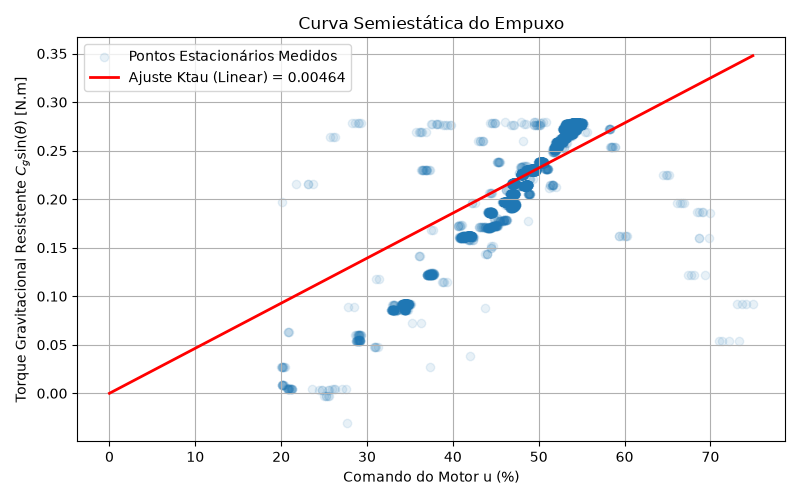
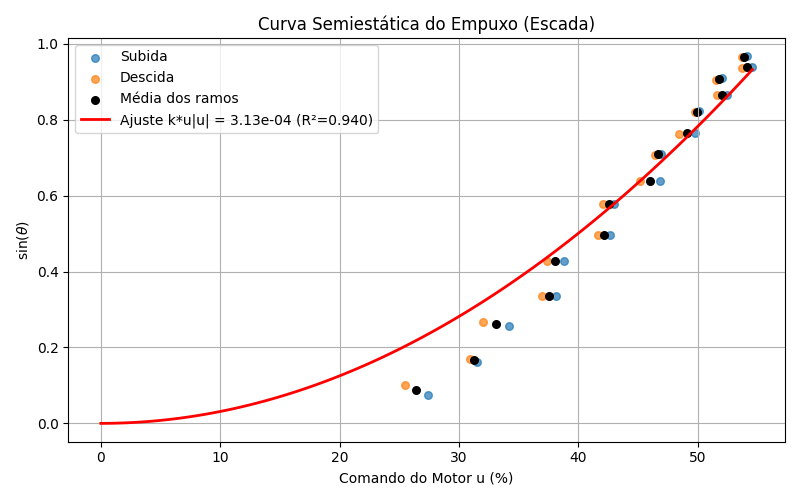
at

diff --git a/sysid/notebooks/identificação-collab/IDENT-FELIPE/ident_greybox_prof.py b/sysid/notebooks/identificação-collab/IDENT-FELIPE/ident_greybox_prof.py
@@ -18,51 +18,135 @@ m2, L2 = 0.055, 0.347
 g = 9.81
 C_g = (m1*L1 - m2*L2)*g  # Torque máximo da gravidade: ~0.2795 N.m
 
-def extract_static_gain():
+def extract_static_gain_ramp():
     """
     Passo 1: Curva Semiestática
-    Isola o ganho do motor (Ktau) ou g(u) assumindo aceleração e velocidade zero
-    em pontos de repouso (steady-state).
+    Isola o ganho do motor (Ktau) assumindo aceleração e velocidade ~zero
+    (rampa lenta, quase-estática). O empuxo é modelado como Ktau * u^2
+    (empuxo da hélice ~ omega^2, omega ~ u).
+    A média dos ramos de subida e descida (mesmo ângulo) cancela o atrito seco.
     """
-    print("--- Fase 1: Identificação Semiestática (Degraus) ---")
-    file_path = "data/coletas/RODADA-7_20260904/seq-degraus-45-2_0904_20-45.csv"
+    print("--- Fase 1: Identificação Semiestática (Rampa lenta) ---")
+    file_path = "data/coletas/RODADA-3_20260807/dados_curva_semi_estatica_0807_17-36.csv"
     y_deg, u, t, _ = readData(dataset_name=file_path, return_ref=True)
     
-    y_rad = np.deg2rad(y_deg)
-    dt = np.mean(np.diff(t))
+    # Descarta transitório inicial (amostra com u espúrio)
+    y_deg, u, t = y_deg[10:], u[10:], t[10:]
     
-    # Calcular velocidade (rad/s)
-    v_rad = np.gradient(y_rad, dt)
+    # Separa ramo de subida e de descida (pelo ponto de ângulo máximo)
+    i_max = int(np.argmax(y_deg))
     
-    # Filtrar pontos de estado estacionário (onde a velocidade do braço é ~0)
-    static_mask = np.abs(v_rad) < 0.02
+    # Faixa útil de ângulo: evita zona morta inicial e o batente em ~90°
+    # (onde sin(theta)~1 satura e o braço está apoiado, não em equilíbrio)
+    th_min, th_max = 5.0, 80.0
+    bins = np.arange(th_min, th_max + 1.0, 1.0)
+    centers = 0.5 * (bins[:-1] + bins[1:])
     
-    u_static = u[static_mask]
-    y_static = y_rad[static_mask]
+    def mean_u_by_angle(sl):
+        ang, uu = y_deg[sl], u[sl]
+        out = np.full(len(centers), np.nan)
+        for i in range(len(centers)):
+            m = (ang >= bins[i]) & (ang < bins[i+1])
+            if m.sum() >= 5:
+                out[i] = np.mean(uu[m])
+        return out
     
-    # Filtra u=0 (desligado) para evitar divisão por zero no ganho
-    active_mask = u_static > 20.0
-    u_static = u_static[active_mask]
-    y_static = y_static[active_mask]
+    u_up = mean_u_by_angle(slice(0, i_max))
+    u_down = mean_u_by_angle(slice(i_max, None))
+    valid = ~np.isnan(u_up) & ~np.isnan(u_down)
     
-    # A equação estática é: Ktau * u = C_g * sin(theta) => Ktau = C_g * sin(theta) / u
-    sin_theta = np.sin(y_static)
-    Torque_g = C_g * sin_theta
+    u_avg = 0.5 * (u_up[valid] + u_down[valid])
+    Torque_g = np.sin(np.deg2rad(centers[valid]))   # sin(theta) normalizado
     
-    # Ajuste Linear de Reta passando pela origem (Mínimos Quadrados)
-    # Y = Ktau * X -> Torque_g = Ktau * u
-    Ktau_opt = np.dot(u_static, Torque_g) / np.dot(u_static, u_static)
+    # Equilíbrio (modelo do professor): 0 = c1*sin(th) + c3*u|u|  =>  sin(th) = k*u|u|
+    # com k = c3/|c1| (independe de massas/comprimentos). Ajuste pela origem (MQ).
+    u2 = u_avg * np.abs(u_avg)
+    Ktau_opt = np.dot(u2, Torque_g) / np.dot(u2, u2)
     
-    print(f"Ganho Ktau isolado pela curva semiestática: {Ktau_opt:.6f} N.m/%")
+    r2 = 1 - np.sum((Torque_g - Ktau_opt*u2)**2) / np.sum((Torque_g - Torque_g.mean())**2)
+    print(f"Razão estática k = c3/|c1|: {Ktau_opt:.4e} 1/%^2 | R2 = {r2:.4f}  (Ktau físico = k*C_g = {Ktau_opt*C_g:.4e})")
     
     # Salva o gráfico comprobatório
     plt.figure(figsize=(8,5))
-    plt.scatter(u_static, Torque_g, alpha=0.1, label='Pontos Estacionários Medidos')
-    u_line = np.linspace(0, max(u_static), 100)
-    plt.plot(u_line, Ktau_opt * u_line, 'r-', lw=2, label=f'Ajuste Ktau (Linear) = {Ktau_opt:.5f}')
+    plt.scatter(u_up[valid], Torque_g, s=12, alpha=0.5, label='Subida')
+    plt.scatter(u_down[valid], Torque_g, s=12, alpha=0.5, label='Descida')
+    plt.scatter(u_avg, Torque_g, s=12, c='k', label='Média dos ramos')
+    u_line = np.linspace(0, max(u_avg.max(), u_up[valid].max()), 100)
+    plt.plot(u_line, Ktau_opt * u_line**2, 'r-', lw=2, label=f'Ajuste k*u|u| = {Ktau_opt:.2e} (R²={r2:.3f})')
     plt.title("Curva Semiestática do Empuxo")
     plt.xlabel("Comando do Motor u (%)")
-    plt.ylabel("Torque Gravitacional Resistente $C_g \sin(\\theta)$ [N.m]")
+    plt.ylabel(r"$\sin(\theta)$")
+    plt.grid(True)
+    plt.legend()
+    plt.tight_layout()
+    plt.savefig(os.path.join(current_dir, 'curva_semiestatica_rampa.png'))
+    plt.close()
+    
+    return float(Ktau_opt)
+
+
+def extract_static_gain():
+    """
+    Passo 1: Curva Semiestática por Escada (patamares)
+    Cada patamar da referência é um equilíbrio (v=0, a=0). Usa-se a média da parte
+    final de cada patamar (já assentada) de theta MEDIDO e de u. O empuxo é
+    Ktau * u^2. A média entre patamares de subida e descida (mesma referência)
+    cancela o atrito seco.
+    """
+    print("--- Fase 1: Identificação Semiestática (Escada) ---")
+    file_path = "data/experimentos/coleta_dados/RODADA-4/escada-atrito-1_0819_19-08.csv"
+    y_deg, u, t, ref = readData(dataset_name=file_path, return_ref=True)
+    
+    settle_frac = 0.4          # usa os últimos 40% de cada patamar
+    th_max = 80.0              # evita o batente (~90°)
+    
+    # Segmenta em patamares onde a referência é constante
+    change = np.flatnonzero(np.abs(np.diff(ref)) > 1e-6) + 1
+    starts = np.r_[0, change]
+    ends = np.r_[change, len(ref)]
+    i_peak = int(np.argmax(ref))
+    
+    plateaus = []  # (ref, theta_mean, u_mean, is_up)
+    for s, e in zip(starts, ends):
+        n = e - s
+        if n < 100:   # patamar curto demais (< ~1 s)
+            continue
+        a = s + int((1 - settle_frac) * n)
+        theta_m = np.mean(y_deg[a:e])
+        u_m = np.mean(u[a:e])
+        r = ref[s]
+        if r <= 0 or theta_m > th_max or u_m < 5:
+            continue
+        plateaus.append((r, theta_m, u_m, s < i_peak))
+    
+    up = {p[0]: p for p in plateaus if p[3]}
+    down = {p[0]: p for p in plateaus if not p[3]}
+    common = sorted(set(up) & set(down))
+    
+    th_up = np.array([up[r][1] for r in common]); u_up = np.array([up[r][2] for r in common])
+    th_dn = np.array([down[r][1] for r in common]); u_dn = np.array([down[r][2] for r in common])
+    
+    # Média dos dois ramos (cancela atrito seco)
+    th_avg = np.deg2rad(0.5 * (th_up + th_dn))
+    u_avg = 0.5 * (u_up + u_dn)
+    Torque_g = np.sin(th_avg)   # sin(theta) normalizado
+    
+    # Equilíbrio (modelo do professor): sin(th) = k*u|u|, k = c3/|c1| (MQ pela origem)
+    u2 = u_avg * np.abs(u_avg)
+    Ktau_opt = np.dot(u2, Torque_g) / np.dot(u2, u2)
+    r2 = 1 - np.sum((Torque_g - Ktau_opt*u2)**2) / np.sum((Torque_g - Torque_g.mean())**2)
+    print(f"Patamares usados: {len(common)} pares subida/descida (refs: {common[0]:.0f}°..{common[-1]:.0f}°)")
+    print(f"Razão estática k = c3/|c1|: {Ktau_opt:.4e} 1/%^2 | R2 = {r2:.4f}  (Ktau físico = k*C_g = {Ktau_opt*C_g:.4e})")
+    
+    plt.figure(figsize=(8,5))
+    plt.scatter(u_up, np.sin(np.deg2rad(th_up)), s=30, alpha=0.7, label='Subida')
+    plt.scatter(u_dn, np.sin(np.deg2rad(th_dn)), s=30, alpha=0.7, label='Descida')
+    plt.scatter(u_avg, Torque_g, s=30, c='k', label='Média dos ramos')
+    u_line = np.linspace(0, max(u_up.max(), u_dn.max()), 100)
+    plt.plot(u_line, Ktau_opt * u_line**2, 'r-', lw=2, label=f'Ajuste k*u|u| = {Ktau_opt:.2e} (R²={r2:.3f})')
+    plt.title("Curva Semiestática do Empuxo (Escada)")
+    plt.xlabel("Comando do Motor u (%)")
+    plt.ylabel(r"$\sin(\theta)$")
     plt.grid(True)
     plt.legend()
     plt.tight_layout()
@@ -72,10 +156,12 @@ def extract_static_gain():
     return float(Ktau_opt)
 
 
-def run_dynamic_optimization(Ktau_fixed):
+def run_dynamic_optimization(k_static):
     """
-    Passo 2: Otimização Dinâmica
-    Descobre Inércia, Atrito Linear, Coulomb e Stribeck usando o Ktau já descoberto.
+    Passo 2: Otimização Dinâmica (Multiple Shooting) — modelo do professor:
+        theta'' = c1*sin(theta) + c2*theta' + c3*u|u| + Fa_NL(theta')
+    com c3 = -k*c1 (k = c3/|c1| vindo da curva semiestática).
+    Descobre c1, c2 e os parâmetros do atrito não linear (Coulomb + Stribeck), em rad/s^2.
     """
     print("\n--- Fase 2: Otimização Dinâmica com Atrito Não-Linear (Modelo do Professor) ---")
     file_path = "data/coletas/RODADA-7_20260904/multi-seno-45-040Hz_0904_20-26.csv"
@@ -99,25 +185,26 @@ def run_dynamic_optimization(Ktau_fixed):
     opti = cs.Opti()
     X = opti.variable(2, N)
     
-    # --- Parâmetros Ocultos a Descobrir ---
-    J  = opti.variable() # Inércia
-    b  = opti.variable() # Atrito Viscoso Linear
-    Fc = opti.variable() # Atrito Seco Constante (Coulomb)
-    Fs = opti.variable() # Pico de Atrito Estático (Stribeck)
-    vs = opti.variable() # Velocidade Crítica do Stribeck
+    # --- Parâmetros a Descobrir (forma em aceleração, rad/s^2) ---
+    c1 = opti.variable() # c1 = -Cg/J   (gravidade)
+    c2 = opti.variable() # c2 = -b/J    (atrito viscoso linear)
+    Fc = opti.variable() # Coulomb em rad/s^2
+    Fs = opti.variable() # Pico Stribeck em rad/s^2
+    vs = opti.variable() # Velocidade crítica do Stribeck
+    c3 = -k_static * c1  # c3 = Ktau/J, preso à curva semiestática (c3/|c1| = k)
     
-    # Limites físicos
-    opti.subject_to(opti.bounded(0.01, J, 0.2))
-    opti.subject_to(opti.bounded(0.0, b, 0.1))
-    opti.subject_to(opti.bounded(0.0, Fc, 0.1))
-    opti.subject_to(opti.bounded(0.0, Fs, 0.1))
+    # Limites
+    opti.subject_to(opti.bounded(-40.0, c1, -0.5))
+    opti.subject_to(opti.bounded(-20.0, c2, 0.0))
+    opti.subject_to(opti.bounded(0.0, Fc, 5.0))
+    opti.subject_to(opti.bounded(0.0, Fs, 5.0))
     opti.subject_to(opti.bounded(0.01, vs, 5.0))
     
-    # Chutes Iniciais
-    opti.set_initial(J, 0.035)
-    opti.set_initial(b, 0.016)
-    opti.set_initial(Fc, 0.005)
-    opti.set_initial(Fs, 0.005)
+    # Chutes Iniciais (J~0.035: c1=-Cg/J, c2=-b/J, Fc/J...)
+    opti.set_initial(c1, -C_g / 0.035)
+    opti.set_initial(c2, -0.016 / 0.035)
+    opti.set_initial(Fc, 0.005 / 0.035)
+    opti.set_initial(Fs, 0.005 / 0.035)
     opti.set_initial(vs, 0.5)
     
     # Condição inicial
@@ -127,11 +214,10 @@ def run_dynamic_optimization(Ktau_fixed):
     # Runge-Kutta 4 Integrator Inline
     def rk4_step(x_k, u_k):
         def f(x_, u_):
-            fric_lin = b * x_[1]
-            fric_coul = Fc * cs.tanh(50 * x_[1])
-            fric_strib = Fs * cs.exp(-(x_[1]/vs)**2) * cs.tanh(50 * x_[1])
-            fric_tot = fric_lin + fric_coul + fric_strib
-            return cs.vertcat(x_[1], (Ktau_fixed * u_ - fric_tot - C_g * cs.sin(x_[0])) / J)
+            fric_nl = -(Fc * cs.tanh(50 * x_[1])
+                        + Fs * cs.exp(-(x_[1]/vs)**2) * cs.tanh(50 * x_[1]))   # Fa_NL
+            acc = c1 * cs.sin(x_[0]) + c2 * x_[1] + c3 * u_ * cs.fabs(u_) + fric_nl
+            return cs.vertcat(x_[1], acc)
             
         k1 = f(x_k, u_k)
         k2 = f(x_k + dt/2 * k1, u_k)
@@ -155,28 +241,25 @@ def run_dynamic_optimization(Ktau_fixed):
     print("Iniciando otimização do IPOPT...")
     try:
         sol = opti.solve()
-        X_opt = sol.value(X)
-        J_opt = sol.value(J)
-        b_opt = sol.value(b)
-        Fc_opt = sol.value(Fc)
-        Fs_opt = sol.value(Fs)
-        vs_opt = sol.value(vs)
+        val = sol.value
     except Exception as e:
         print("A otimização falhou ao convergir. Usando valores da última iteração...")
-        X_opt = opti.debug.value(X)
-        J_opt = opti.debug.value(J)
-        b_opt = opti.debug.value(b)
-        Fc_opt = opti.debug.value(Fc)
-        Fs_opt = opti.debug.value(Fs)
-        vs_opt = opti.debug.value(vs)
+        val = opti.debug.value
+    X_opt = val(X)
+    c1_opt, c2_opt = val(c1), val(c2)
+    Fc_opt, Fs_opt, vs_opt = val(Fc), val(Fs), val(vs)
+    c3_opt = -k_static * c1_opt
+    J_equiv = -C_g / c1_opt   # inércia equivalente (usando C_g físico)
         
     print("\n=============================================")
-    print(" Parâmetros Identificados (Modelo do Professor)")
-    print(f" Inércia (J)       = {J_opt:.6f} kg.m^2")
-    print(f" Atrito Viscoso (b)= {b_opt:.6f} N.m.s/rad")
-    print(f" Coulomb (Fc)      = {Fc_opt:.6f} N.m")
-    print(f" Stribeck Max (Fs) = {Fs_opt:.6f} N.m")
+    print(" Parâmetros Identificados (Modelo do Professor, rad/s^2)")
+    print(f" c1 (sin)          = {c1_opt:.6f}   [= -Cg/J]")
+    print(f" c2 (theta')       = {c2_opt:.6f}   [= -b/J]")
+    print(f" c3 (u|u|)         = {c3_opt:.6e}   [= -k*c1, k estático = {k_static:.4e}]")
+    print(f" Coulomb (Fc)      = {Fc_opt:.6f} rad/s^2")
+    print(f" Stribeck Max (Fs) = {Fs_opt:.6f} rad/s^2")
     print(f" Vel. Stribeck (vs)= {vs_opt:.6f} rad/s")
+    print(f" -> J equivalente  = {J_equiv:.5f} kg.m^2 | b = {-c2_opt*J_equiv:.5f} N.m.s/rad | Ktau = {c3_opt*J_equiv:.4e}")
     print("=============================================")
     
     y_sim_deg = np.rad2deg(X_opt[0, :])
@@ -197,4 +280,6 @@ def run_dynamic_optimization(Ktau_fixed):
 
 if __name__ == "__main__":
     Ktau_descobridor = extract_static_gain()
+    Ktau_rampa = extract_static_gain_ramp()
+    print(f"Comparação k=c3/|c1|: escada = {Ktau_descobridor:.4e} | rampa = {Ktau_rampa:.4e}")
     run_dynamic_optimization(Ktau_descobridor)
